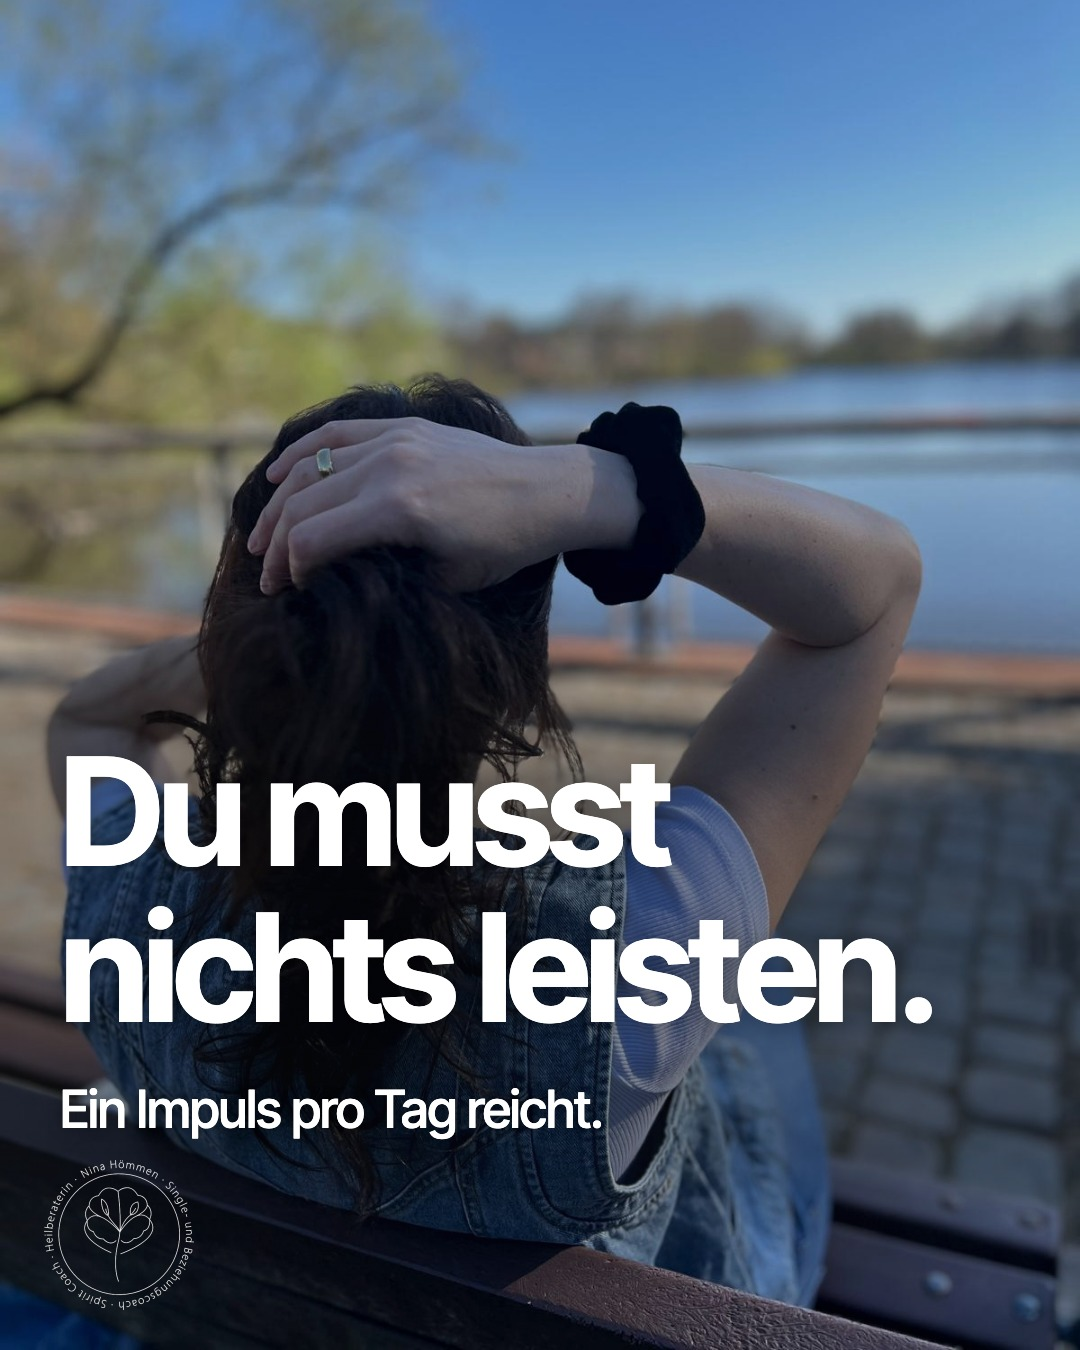
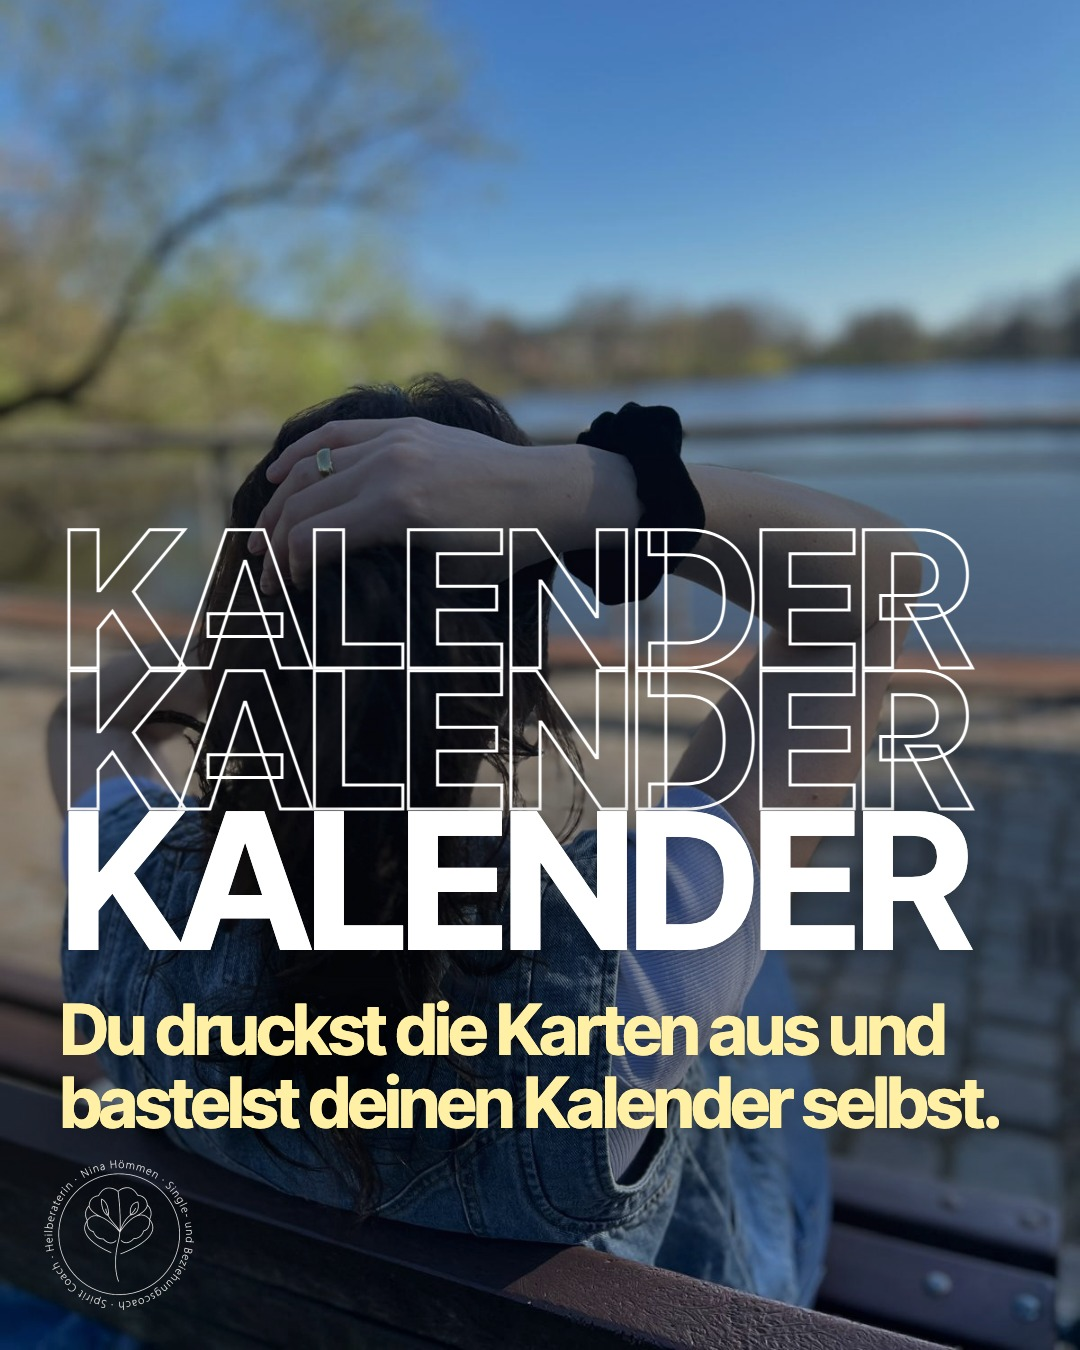
Produktdetails aus Ninas PDFs, Adventskalender als Bastel-Set, k32 Von Herz zu Herz (24.11.), k33 90-Tage-Journal (1.12.)

Changed region(s): [[0.0, 0.3111, 1.0, 0.84]]

diff --git a/docs/content-posts-auto.md b/docs/content-posts-auto.md
@@ -560,7 +560,7 @@ Welcher Satz aus diesen Stimmen berührt dich am meisten? 🤍
 | 2 | Textseite | Vierundzwanzig achtsame Impulse für die Zeit vor Weihnachten. Einer pro Tag. |
 | 3 | Textseite | Kein Wettlauf durch die Tage. Nur ein ruhiger Moment, der dir gehört. |
 | 4 | Textseite | Du bekommst ihn als PDF per E-Mail, sofort nach dem Kauf. |
-| 5 | Textseite | Du musst nichts leisten. Ein Impuls pro Tag reicht. |
+| 5 | Textseite | Du druckst die Karten aus und bastelst deinen Kalender selbst. Jahr für Jahr wieder. |
 | 6 | Schlussseite | Dein Adventskalender für die Seele wartet in meinem Shop. Link in der Bio. |
 
 **Caption:**
@@ -570,7 +570,9 @@ Die Wochen vor Weihnachten sind oft laut. Viele Termine, viele Erwartungen, weni
 
 Darum habe ich „Dein Adventskalender für die Seele“ geschrieben: vierundzwanzig achtsame Impulse, einer pro Tag, für einen ruhigen Moment, der nur dir gehört.
 
-Du bekommst ihn als PDF per E-Mail, sofort nach dem Kauf, ohne Versand und ohne Wartezeit. Du musst nichts leisten. Ein Impuls pro Tag reicht.
+Du bekommst ihn als PDF per E-Mail, sofort nach dem Kauf. Enthalten sind 24 Adventskarten zum Selbstausdrucken und Basteln, eine Willkommenskarte, eine Abschlusskarte „Innehalten“, eine Anleitung und Ideen für deine persönliche Gestaltung. Du kannst ihn Jahr für Jahr wieder verwenden oder einem Herzensmenschen schenken.
+
+Du musst nichts leisten. Ein Impuls pro Tag reicht.
 
 Du findest ihn in meinem Shop über den Link in der Bio.
 
@@ -579,3 +581,67 @@ Folge @ninahoemmencoaching, wenn du dir in der Adventszeit mehr Ruhe wünschst.
 Wofür wünschst du dir in diesem Advent mehr Raum? 🤍
 
 **Hashtags:** #advent #adventszeit #selbstfürsorge #achtsamkeit #traumasensibel
+
+## Karussell 32: Eine Frage reicht
+- Format: Werbung
+- Kernthema: 1
+- Angebot: Shop
+- Termin: 2026-11-24
+- Cover-Foto: 78
+
+| Seite | Vorlage | Text |
+|---|---|---|
+| 1 | Cover mit Foto (Nina, Porträt) | **Eine Frage reicht für ein echtes Gespräch.** |
+| 2 | Textseite | Viele Begegnungen bleiben bei Beruf, Urlaub und Alltag hängen. Vielleicht wünschst du dir mehr. |
+| 3 | Textseite | Zweihundertvierzig Fragen zum Lächeln, Nachdenken und Erzählen. Du ziehst eine Karte und liest sie laut vor. |
+| 4 | Textseite | Jede Person entscheidet selbst, ob und wie viel sie antwortet. Jede Frage ist eine Einladung, keine Pflicht. |
+| 5 | Textseite | Für Dates, Partnerschaften und Freundschaften. Du druckst die Karten selbst aus. |
+| 6 | Schlussseite | Das Gesprächskartenset Von Herz zu Herz gibt es in meinem Shop. Link in der Bio. Schick den Beitrag weiter. |
+
+**Caption:**
+Eine Frage reicht für ein echtes Gespräch.
+
+Viele Begegnungen bleiben bei Beruf, Urlaub und Alltag hängen. Oder es wird sehr schnell sehr persönlich, bevor überhaupt Vertrauen da ist. Beides kennst du vielleicht.
+
+Mein Gesprächskartenset „Von Herz zu Herz“ hat 240 Fragen, die zum Lächeln, Nachdenken und Erzählen einladen. Es ist mit einer traumasensiblen Haltung entstanden: Nähe wird niemals erzwungen. Jede Frage ist eine Einladung, keine Verpflichtung, und jede Person entscheidet selbst, ob und wie ausführlich sie antwortet.
+
+Du bekommst das Set als PDF zum Ausdrucken, für Dates, Kennenlernphasen, Partnerschaften und Freundschaften. Du findest es in meinem Shop über den Link in der Bio.
+
+Folge @ninahoemmencoaching, wenn du mehr echte Nähe in deinen Gesprächen willst.
+
+Welche Frage würdest du gern einmal gestellt bekommen? 🤍
+
+**Hashtags:** #gesprächskarten #echteverbindung #kennenlernen #beziehung #traumasensibel
+
+## Karussell 33: 90 Tage, eine Frage pro Tag
+- Format: Werbung
+- Kernthema: 2
+- Angebot: Shop
+- Termin: 2026-12-01
+- Cover-Foto: 77
+
+| Seite | Vorlage | Text |
+|---|---|---|
+| 1 | Cover mit Foto (Nina, Porträt) | **90 Tage. Eine Frage pro Tag.** |
+| 2 | Textseite | Jeden Tag ein kurzer Impuls zum Innehalten, Nachspüren und Aufschreiben. |
+| 3 | Textseite | Unter jeder Frage steht ein kleines Beispiel als Inspiration. Es gibt kein Richtig und kein Falsch. |
+| 4 | Textseite | Dreizehn Wochen, von Ankommen bei dir bis Neubeginn. Dazu kleine Übungen für dein Nervensystem. |
+| 5 | Textseite | Wenn es zu viel wird, darfst du pausieren oder eine Seite überspringen. |
+| 6 | Schlussseite | Das Journal „90 Tage näher zu dir“ gibt es in meinem Shop. Link in der Bio. |
+
+**Caption:**
+90 Tage. Eine Frage pro Tag.
+
+Mein 90-Tage-Reflexionsjournal begleitet dich jeden Tag mit einem kurzen Impuls: eine Frage zum Innehalten, Nachspüren und Aufschreiben. Unter jeder Frage steht ein kleines Beispiel als Inspiration. Es gibt kein Richtig und kein Falsch.
+
+Die Fragen führen dich über dreizehn Wochen, von „Ankommen bei dir“ über Beziehungsmuster, Nervensystem, Selbstwert und Grenzen bis zu Loslassen, Selbstverbindung und Neubeginn. Am Anfang findest du einfache Übungen, die dich beruhigen können, wenn Gefühle zu stark werden. Als Bonus gibt es den Beziehungs-Kompass.
+
+Du darfst Pausen machen und Seiten überspringen. Du musst hier nichts leisten.
+
+Das Journal gibt es als PDF in meinem Shop, ob vor, nach oder ganz ohne mein Buch. Du findest es über den Link in der Bio.
+
+Folge @ninahoemmencoaching, wenn du dir selbst Schritt für Schritt näherkommen willst.
+
+Welche Frage würdest du dir morgen früh gern selbst stellen? 🤍
+
+**Hashtags:** #journaling #selbstreflexion #beziehungsmuster #selbstfürsorge #traumasensibel
